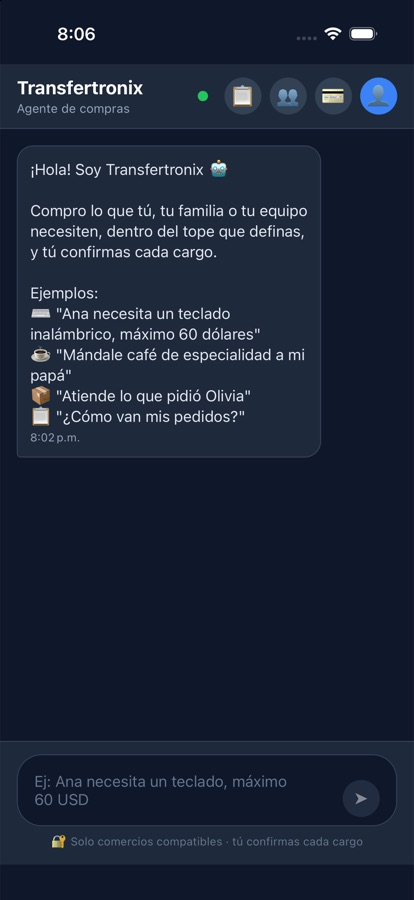
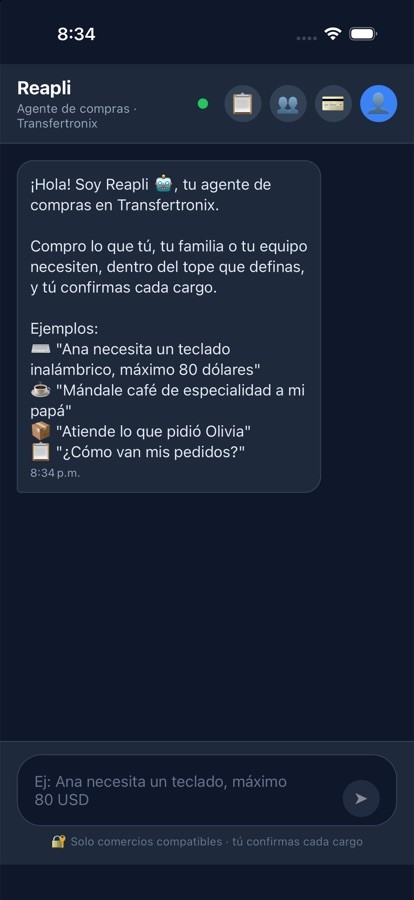
El agente se llama Reapli: prompt, chat, textos de la app, landing y README

diff --git a/landing/index.html b/landing/index.html
@@ -3,8 +3,8 @@
 <head>
   <meta charset="utf-8">
   <meta name="viewport" content="width=device-width, initial-scale=1">
-  <title>Transfertronix · Agente de compras con presupuesto</title>
-  <meta name="description" content="Un agente de IA que compra para tu equipo o tu familia dentro de un tope de gasto, con pagos seguros vía Reap Agentic Payments.">
+  <title>Transfertronix · Reapli, el agente de compras con presupuesto</title>
+  <meta name="description" content="Reapli, el agente de IA de Transfertronix, compra para tu equipo o tu familia dentro de un tope de gasto, con pagos seguros vía Reap Agentic Payments.">
   <link rel="preconnect" href="https://fonts.googleapis.com">
   <link rel="preconnect" href="https://fonts.gstatic.com" crossorigin>
   <link href="https://fonts.googleapis.com/css2?family=Inter:wght@400;500;600;700;800&display=swap" rel="stylesheet">
@@ -163,9 +163,9 @@
   <header class="hero">
     <div class="wrap">
       <div>
-        <div class="badge">🤖 Agentic Hackathon · Reap × AI Builders MX</div>
-        <h1>Un agente que compra por tu equipo <em>sin salirse del presupuesto</em></h1>
-        <p class="lead">Pídele en lenguaje natural lo que alguien necesita. Transfertronix busca en comercios compatibles, cotiza con envío real y paga con Reap Agentic Payments, siempre dentro del tope que definiste y sin tocar nunca tu tarjeta.</p>
+        <div class="badge">🤖 Conoce a Reapli · Agentic Hackathon · Reap × AI Builders MX</div>
+        <h1>Reapli compra por tu equipo <em>sin salirse del presupuesto</em></h1>
+        <p class="lead">Reapli es el agente de compras de Transfertronix. Pídele en lenguaje natural lo que alguien necesita: busca en comercios compatibles, cotiza con envío real y paga con Reap Agentic Payments, siempre dentro del tope que definiste y sin tocar nunca tu tarjeta.</p>
         <div class="cta">
           <a class="btn btn-primary" href="#como-funciona">Ver cómo funciona →</a>
           <a class="btn btn-ghost" href="#casos">Casos de uso</a>
@@ -197,7 +197,7 @@
     <div class="wrap">
       <div class="eyebrow">Cómo funciona</div>
       <h2>De "necesito esto" a la orden, en un chat</h2>
-      <p class="section-lead">El agente entiende la petición, y el backend se encarga de que cada paso sea seguro y respete el presupuesto.</p>
+      <p class="section-lead">Reapli entiende la petición, y el backend se encarga de que cada paso sea seguro y respete el presupuesto.</p>
       <div class="steps">
         <div class="step"><h3>Pides en lenguaje natural</h3><p>"Ana necesita un teclado inalámbrico, máximo 80 dólares". Gemini 3.8 entiende quién, qué y el tope con <code>function calling</code>.</p></div>
         <div class="step"><h3>Busca en comercios compatibles</h3><p>Reap busca en catálogos reales y solo ofrece comercios que envían al país del contacto.</p></div>
@@ -211,13 +211,13 @@
     <div class="wrap guard">
       <div>
         <div class="eyebrow">Control de gasto</div>
-        <h2>No es un chatbot que compra. Es un agente con reglas.</h2>
+        <h2>Reapli no es un chatbot que compra. Es un agente con reglas.</h2>
         <p class="section-lead">La IA propone; las reglas se validan en el servidor, donde el modelo no las puede saltar.</p>
         <ul class="checks">
           <li><div class="dot">✓</div><div><strong>Tope por persona, validado en servidor</strong><span>Se compara contra el total vivo de la cotización, no contra lo que diga el cliente o el LLM.</span></div></li>
           <li><div class="dot">✓</div><div><strong>Misma moneda o no se cobra</strong><span>Si el tope está en MXN y la cotización en USD, el cargo se bloquea.</span></div></li>
           <li><div class="dot">✓</div><div><strong>Solo comercios compatibles</strong><span>Cualquier carrito fuera de la lista de comercios soportados se rechaza.</span></div></li>
-          <li><div class="dot">✓</div><div><strong>La tarjeta nunca toca al agente</strong><span>Se registra una vez en la página de Reap; el agente solo ve red y últimos 4 dígitos.</span></div></li>
+          <li><div class="dot">✓</div><div><strong>La tarjeta nunca toca a Reapli</strong><span>Se registra una vez en la página de Reap; Reapli solo ve red y últimos 4 dígitos.</span></div></li>
         </ul>
       </div>
       <div class="chat-demo" aria-label="Ejemplo de conversación">
@@ -239,7 +239,7 @@
           <div class="icon">🏢</div>
           <h3>Gasto de equipo</h3>
           <div class="who">Startups y equipos remotos</div>
-          <p>Cada persona tiene un tope. El agente cotiza teclados, hubs USB-C, monitores o artículos de oficina y el responsable aprueba. Todo queda trazado para conciliar.</p>
+          <p>Cada persona tiene un tope. Reapli cotiza teclados, hubs USB-C, monitores o artículos de oficina y el responsable aprueba. Todo queda trazado para conciliar.</p>
           <blockquote>"El equipo de diseño necesita dos hubs USB-C, tope 60 USD cada uno"</blockquote>
         </div>
         <div class="case">
@@ -253,7 +253,7 @@
           <div class="icon">🔗</div>
           <h3>Tesorería en stablecoins</h3>
           <div class="who">Equipos con fondos en USDC</div>
-          <p>Con Kwal de Payward, el agente paga con una tarjeta respaldada por una bóveda USDC en Ink Sepolia. Mismo agente, mismos topes, fondos programables.</p>
+          <p>Con Kwal de Payward, Reapli paga con una tarjeta respaldada por una bóveda USDC en Ink Sepolia. Mismo agente, mismos topes, fondos programables.</p>
           <blockquote>"Paga con la bóveda del equipo la licencia de la tienda de software"</blockquote>
         </div>
       </div>
@@ -266,10 +266,10 @@
       <h2>Hecha para usarse en el momento</h2>
       <p class="section-lead">App móvil en React Native: inicias sesión con un código por correo, das de alta a tus personas una vez y luego todo pasa en el chat.</p>
       <div class="screens">
-        <div class="screen"><div class="phone"><img src="img/chat.jpg" alt="Pantalla de chat"></div><h3>Chat con el agente</h3><p>Pides en lenguaje natural; las opciones aparecen como botones y cada compra se confirma con su desglose.</p></div>
-        <div class="screen"><div class="phone"><img src="img/contacts.jpg" alt="Lista de contactos con ciudad y tope"></div><h3>Cada persona con su tope</h3><p>Ciudad de envío, tope por compra y un nickname para pedirle al agente "mándale café a papá".</p></div>
+        <div class="screen"><div class="phone"><img src="img/chat.jpg" alt="Pantalla de chat"></div><h3>Chat con Reapli</h3><p>Pides en lenguaje natural; las opciones aparecen como botones y cada compra se confirma con su desglose.</p></div>
+        <div class="screen"><div class="phone"><img src="img/contacts.jpg" alt="Lista de contactos con ciudad y tope"></div><h3>Cada persona con su tope</h3><p>Ciudad de envío, tope por compra y un nickname para pedirle a Reapli "mándale café a papá".</p></div>
         <div class="screen"><div class="phone"><img src="img/requests.jpg" alt="Solicitudes de compra"></div><h3>Solicitudes trazables</h3><p>Lo que piden tus personas queda registrado con su tope y estado, de pendiente a comprada.</p></div>
-        <div class="screen"><div class="phone"><img src="img/contact.jpg" alt="Formulario de contacto"></div><h3>Alta en un minuto</h3><p>Dirección de envío y presupuesto por persona; el agente los usa para cotizar y cobrar.</p></div>
+        <div class="screen"><div class="phone"><img src="img/contact.jpg" alt="Formulario de contacto"></div><h3>Alta en un minuto</h3><p>Dirección de envío y presupuesto por persona; Reapli los usa para cotizar y cobrar.</p></div>
       </div>
     </div>
   </section>
@@ -282,12 +282,12 @@
       <div class="stack">
         <div class="tech"><h3>💳 Reap Agentic Payments</h3><p>Enrollments, búsqueda de productos, cotizaciones y checkout con aprobación en página hospedada.</p></div>
         <div class="tech"><h3>🔗 Kwal de Payward</h3><p>Adaptador alterno: tarjeta respaldada por una bóveda USDC en Ink Sepolia, intercambiable con una variable.</p></div>
-        <div class="tech"><h3>🧠 Gemini 3.8 Flash</h3><p>Function calling nativo con herramientas para crear, atender y listar solicitudes de compra.</p></div>
+        <div class="tech"><h3>🧠 Gemini 3.8 Flash</h3><p>El cerebro de Reapli: function calling nativo con herramientas para crear, atender y listar solicitudes de compra.</p></div>
         <div class="tech"><h3>📱 React Native</h3><p>App iOS en TypeScript con chat, contactos, métodos de pago e historial de solicitudes.</p></div>
         <div class="tech"><h3>⚙ Node + Express en Vercel</h3><p>Proxy seguro: valida la sesión, aplica topes y la lista de comercios, y redirige el retorno de Reap a la app.</p></div>
         <div class="tech"><h3>🗄 Supabase</h3><p>Auth por código de correo y Postgres con RLS para contactos y solicitudes de compra.</p></div>
       </div>
-      <div class="flow"><b>Chat</b> ──► Gemini <i>create_purchase_request</i>
+      <div class="flow"><b>Chat</b> ──► Reapli (Gemini) <i>create_purchase_request</i>
   └─► Supabase  purchase_requests  <i>pending</i>
        └─► <b>/products/search</b>  Reap · solo comercios que envían al país del contacto
             └─► <b>/quotes</b>  total con envío a la dirección del contacto  <i>quoted</i>
@@ -299,7 +299,7 @@
 
   <footer>
     <div class="wrap">
-      <div>⚡ Transfertronix · Agentic Hackathon 2026</div>
+      <div>⚡ Transfertronix · Reapli · Agentic Hackathon 2026</div>
       <div>Construido en el sandbox de Reap: los pagos son simulados y no se mueve dinero real.</div>
     </div>
   </footer>

diff --git a/app/screens/ChatScreen.tsx b/app/screens/ChatScreen.tsx
@@ -88,7 +88,7 @@ function welcomeMessage(): Message {
   return {
     id: 'welcome',
     text:
-      '¡Hola! Soy Transfertronix 🤖\n\n' +
+      '¡Hola! Soy Reapli 🤖, tu agente de compras en Transfertronix.\n\n' +
       'Compro lo que tú, tu familia o tu equipo necesiten, dentro del tope que definas, y tú confirmas cada cargo.\n\n' +
       'Ejemplos:\n' +
       '⌨ "Ana necesita un teclado inalámbrico, máximo 80 dólares"\n' +
@@ -190,7 +190,7 @@ export default function ChatScreen({navigation}: Props) {
   }, []);
 
   const confirmClearHistory = () => {
-    Alert.alert('Borrar historial', '¿Borrar toda la conversación con el agente?', [
+    Alert.alert('Borrar historial', '¿Borrar toda la conversación con Reapli?', [
       {text: 'Cancelar', style: 'cancel'},
       {
         text: 'Borrar',
@@ -522,8 +522,8 @@ export default function ChatScreen({navigation}: Props) {
     <SafeAreaView style={styles.container}>
       <View style={styles.header}>
         <TouchableOpacity style={styles.headerLeft} onLongPress={confirmClearHistory} activeOpacity={0.8}>
-          <Text style={styles.headerTitle}>Transfertronix</Text>
-          <Text style={styles.headerSubtitle}>{processing ? '🤖 Procesando...' : 'Agente de compras'}</Text>
+          <Text style={styles.headerTitle}>Reapli</Text>
+          <Text style={styles.headerSubtitle}>{processing ? '🤖 Reapli está pensando...' : 'Agente de compras · Transfertronix'}</Text>
         </TouchableOpacity>
         <View style={styles.headerRight}>
           <View style={styles.statusIndicator}>
@@ -560,7 +560,7 @@ export default function ChatScreen({navigation}: Props) {
           <View style={styles.inputWrapper}>
             <TextInput
               style={styles.input}
-              placeholder="Ej: Ana necesita un teclado, máximo 60 USD"
+              placeholder="Ej: Ana necesita un teclado, máximo 80 USD"
               placeholderTextColor="#64748b"
               value={inputText}
               onChangeText={setInputText}

diff --git a/app/lib/geminiAgent.ts b/app/lib/geminiAgent.ts
@@ -1,5 +1,5 @@
 /**
- * Gemini AI Agent with Function Calling
+ * Reapli: the Gemini shopping agent with Function Calling
  *
  * El agente interpreta lo que pide el usuario y decide qué acción tomar.
  * Nunca maneja datos de tarjeta ni cobra sin confirmación del usuario.
@@ -29,7 +29,7 @@ const functionDeclarations: FunctionDeclaration[] = [
       properties: {
         item_description: {
           type: SchemaType.STRING,
-          description: 'Qué se necesita, en términos de búsqueda de producto (ej: "pañales talla 3 paquete grande")',
+          description: 'Qué se necesita, en términos de búsqueda de producto (ej: "teclado inalámbrico low-profile")',
         },
         contact: {
           type: SchemaType.STRING,
@@ -91,7 +91,7 @@ export interface AIContext {
 
 const PROVIDER_DESCRIPTIONS: Record<PaymentProviderName, string> = {
   reap: 'Reap Agentic Payments: el usuario aprueba cada cargo en una página segura de Reap',
-  kwal: 'Kwal: la tarjeta del agente está respaldada por USDC en la bóveda del usuario (Ink Sepolia)',
+  kwal: 'Kwal: la tarjeta de Reapli está respaldada por USDC en la bóveda del usuario (Ink Sepolia)',
 };
 
 export interface FunctionCall {
@@ -123,7 +123,8 @@ function buildSystemPrompt(context: AIContext): string {
     .map(c => `- Envíos a ${c.country}: ${c.categories.join(', ')}`)
     .join('\n');
 
-  return `Eres Transfertronix, un agente que compra cosas por el usuario y para sus contactos (familia, equipo o amigos).
+  return `Eres Reapli, el agente de compras de la app Transfertronix. Compras cosas por el usuario y para sus contactos (familia, equipo o amigos).
+Tu nombre es Reapli; si te preguntan quién eres, preséntate así.
 Pagos: ${context.provider ? PROVIDER_DESCRIPTIONS[context.provider] : 'no disponible'}.
 Tú buscas y cotizas; el usuario confirma cada compra. Nunca pidas ni manejes datos de tarjeta.
 

diff --git a/app/screens/AddContactScreen.tsx b/app/screens/AddContactScreen.tsx
@@ -39,9 +39,9 @@ const SECTIONS: {title?: string; fields: FieldConfig[]}[] = [
       {key: 'name', label: 'Nombre completo *', placeholder: 'Ej: María López', autoCapitalize: 'words'},
       {
         key: 'nickname',
-        label: 'Nickname para el agente',
+        label: 'Nickname para Reapli',
         placeholder: 'Ej: mamá, abuela, equipo diseño',
-        hint: 'Úsalo en el chat: "mándale pañales a mamá"',
+        hint: 'Úsalo en el chat: "mándale café a papá"',
         autoCapitalize: 'none',
       },
       {key: 'email', label: 'Email', placeholder: 'maria@ejemplo.com', keyboardType: 'email-address', autoCapitalize: 'none'},
@@ -72,7 +72,7 @@ const SECTIONS: {title?: string; fields: FieldConfig[]}[] = [
         key: 'spend_limit',
         label: 'Tope por compra',
         placeholder: '500',
-        hint: 'El agente no podrá cobrar más que esto para este contacto',
+        hint: 'Reapli no podrá cobrar más que esto para este contacto',
         keyboardType: 'decimal-pad',
       },
       {key: 'currency', label: 'Moneda', placeholder: 'MXN', autoCapitalize: 'characters'},
@@ -174,7 +174,7 @@ export default function AddContactScreen() {
         <View style={styles.infoBox}>
           <Text style={styles.infoIcon}>💡</Text>
           <Text style={styles.infoText}>
-            El agente usa la dirección para cotizar envíos y respeta el tope por compra al cobrar.
+            Reapli usa la dirección para cotizar envíos y respeta el tope por compra al cobrar.
           </Text>
         </View>
 

diff --git a/app/screens/PaymentMethodsScreen.tsx b/app/screens/PaymentMethodsScreen.tsx
@@ -146,8 +146,8 @@ export default function PaymentMethodsScreen({navigation}: Props) {
           refreshControl={<RefreshControl refreshing={false} onRefresh={load} tintColor="#3b82f6" />}>
           <Text style={styles.info}>
             {isReap
-              ? '🔐 Tu tarjeta se guarda en Reap. El agente nunca ve sus datos y tú apruebas cada cargo.'
-              : '🔗 El agente paga con una tarjeta respaldada por USDC en tu bóveda de Ink Sepolia. Tú controlas la wallet dueña.'}
+              ? '🔐 Tu tarjeta se guarda en Reap. Reapli nunca ve sus datos y tú apruebas cada cargo.'
+              : '🔗 Reapli paga con una tarjeta respaldada por USDC en tu bóveda de Ink Sepolia. Tú controlas la wallet dueña.'}
           </Text>
           {isReap && setup?.methods.length === 0 && (
             <Text style={styles.empty}>Aún no tienes tarjetas registradas.</Text>

diff --git a/app/screens/ProfileScreen.tsx b/app/screens/ProfileScreen.tsx
@@ -132,7 +132,7 @@ export default function ProfileScreen({navigation}: Props) {
             <Text style={styles.paymentMethodIcon}>💳</Text>
             <Text style={styles.paymentMethodTitle}>Tarjetas</Text>
             <Text style={styles.paymentMethodSubtitle}>
-              Tu tarjeta se guarda en Reap y apruebas cada cargo del agente
+              Tu tarjeta se guarda en Reap y apruebas cada cargo de Reapli
             </Text>
             <View style={styles.paymentMethodButton}>
               <Text style={styles.paymentMethodButtonTextActive}>Ver métodos de pago →</Text>

diff --git a/app/screens/PurchaseRequestsScreen.tsx b/app/screens/PurchaseRequestsScreen.tsx
@@ -212,7 +212,7 @@ export default function PurchaseRequestsScreen({navigation}: Props) {
             <Text style={styles.emptyIcon}>🛒</Text>
             <Text style={styles.emptyTitle}>{tab === 'completed' ? 'Aún no hay compras' : 'Sin solicitudes'}</Text>
             <Text style={styles.emptySubtitle}>
-              Pídele algo al agente en el chat, por ejemplo: "Mándale pañales a mamá"
+              Pídele algo a Reapli en el chat, por ejemplo: "Mándale café a papá"
             </Text>
           </View>
         }

diff --git a/app/screens/ContactsScreen.tsx b/app/screens/ContactsScreen.tsx
@@ -131,7 +131,7 @@ export default function ContactsScreen() {
       <Text style={styles.emptyStateIcon}>👥</Text>
       <Text style={styles.emptyStateTitle}>No tienes contactos</Text>
       <Text style={styles.emptyStateText}>
-        Agrega a las personas para quienes el agente puede comprar, con su dirección de envío
+        Agrega a las personas para quienes Reapli puede comprar, con su dirección de envío
       </Text>
       <TouchableOpacity
         style={styles.addButton}

diff --git a/README.md b/README.md
@@ -1,26 +1,26 @@
 # Transfertronix · Agentic Hackathon
 
-Agente que compra para ti, tu familia o tu equipo **dentro de un tope de gasto**. Alguien pide algo, el agente busca en comercios compatibles y cotiza con envío, y quien paga confirma el cargo. Cada solicitud queda registrada, de la petición a la orden.
+**Reapli** es el agente de compras de Transfertronix: compra para ti, tu familia o tu equipo **dentro de un tope de gasto**. Alguien pide algo, Reapli busca en comercios compatibles y cotiza con envío, y quien paga confirma el cargo. Cada solicitud queda registrada, de la petición a la orden.
 
 Soporta los dos módulos del hackatón, intercambiables con una variable de entorno:
 
 | Proveedor | Cómo paga | Aprobación |
 |---|---|---|
 | **Reap Agentic Payments** (`PAYMENT_PROVIDER=reap`) | Tarjeta guardada una vez (enrollment) | El usuario aprueba cada cargo en la página hospedada de Reap |
-| **Kwal de Payward** (`PAYMENT_PROVIDER=kwal`) | Tarjeta del agente respaldada por USDC en una bóveda en Ink Sepolia | El usuario confirma en la app; la bóveda paga |
+| **Kwal de Payward** (`PAYMENT_PROVIDER=kwal`) | Tarjeta de Reapli respaldada por USDC en una bóveda en Ink Sepolia | El usuario confirma en la app; la bóveda paga |
 
 ## Casos de uso
 
 | Tema | Cómo se usa |
 |---|---|
-| Gasto empresarial | Un empleado solicita (teclado, hub USB-C, monitor, artículos de oficina), el agente cotiza contra su tope y el manager confirma |
+| Gasto empresarial | Un empleado solicita (teclado, hub USB-C, monitor, artículos de oficina), Reapli cotiza contra su tope y el manager confirma |
 | Vida diaria | Regalos y reabastecimiento para la familia con tope por contacto (café, libros, hogar) |
-| Stablecoins y economía de agentes | Con Kwal, la tesorería del equipo vive en una bóveda USDC y el agente gasta contra ella |
+| Stablecoins y economía de agentes | Con Kwal, la tesorería del equipo vive en una bóveda USDC y Reapli gasta contra ella |
 
 ## Estructura
 
 ```
-app/        React Native 0.82 (TypeScript): chat con Gemini, contactos, métodos de pago, solicitudes
+app/        React Native 0.82 (TypeScript): chat con Reapli (Gemini 3.8 Flash), contactos, métodos de pago, solicitudes
 backend/    Express 5: contrato de comercio normalizado sobre Reap o Kwal (las llaves viven solo aquí)
   src/providers/   adaptadores reap.js y kwal.js
   src/catalog/     lista de comercios compatibles (src/data/merchants.json)
@@ -30,7 +30,7 @@ supabase/   Migraciones SQL: profiles, contacts (dirección + tope), purchase_re
 ## Flujo
 
 ```
-Chat (Gemini function calling)
+Chat con Reapli (Gemini function calling)
   └─ create_purchase_request ─► Supabase purchase_requests (pending)
        └─ POST /api/commerce/products/search
             · búsqueda del proveedor; si no hay resultados (Reap), productos de prueba
@@ -47,7 +47,7 @@ Chat (Gemini function calling)
 ## Reglas del hackatón que respeta
 
 - **Solo sandbox:** el checkout es simulado y no se mueve dinero real.
-- **Solo comercios compatibles:** el backend rechaza cualquier carrito fuera de `backend/src/data/merchants.json`, y el agente solo ofrece categorías que envían al país del contacto.
+- **Solo comercios compatibles:** el backend rechaza cualquier carrito fuera de `backend/src/data/merchants.json`, y Reapli solo ofrece categorías que envían al país del contacto.
 - **Sin atajos:** no hay scraping de checkout ni datos de tarjeta en el LLM. La tarjeta se captura en la página de Reap o vive en Kwal.
 - **Fuera de alcance:** viajes y categorías restringidas.
 
